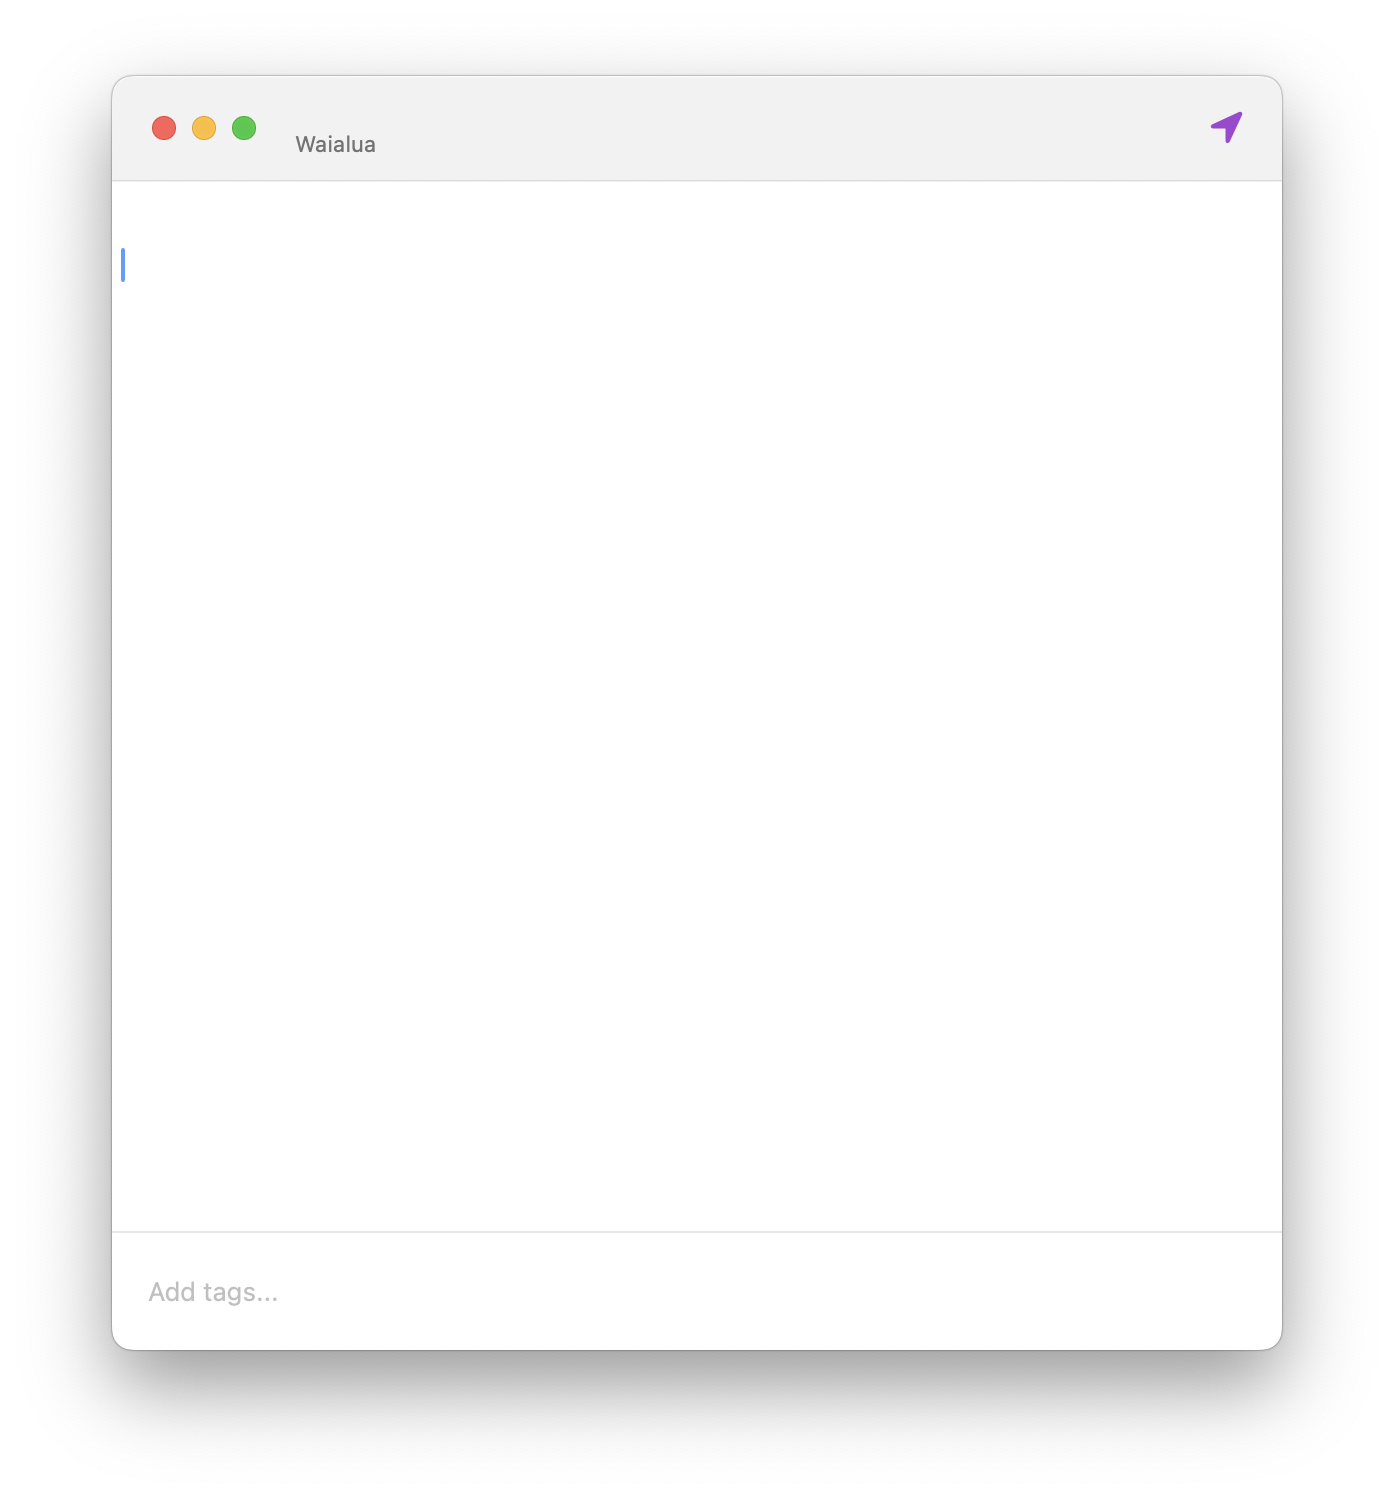
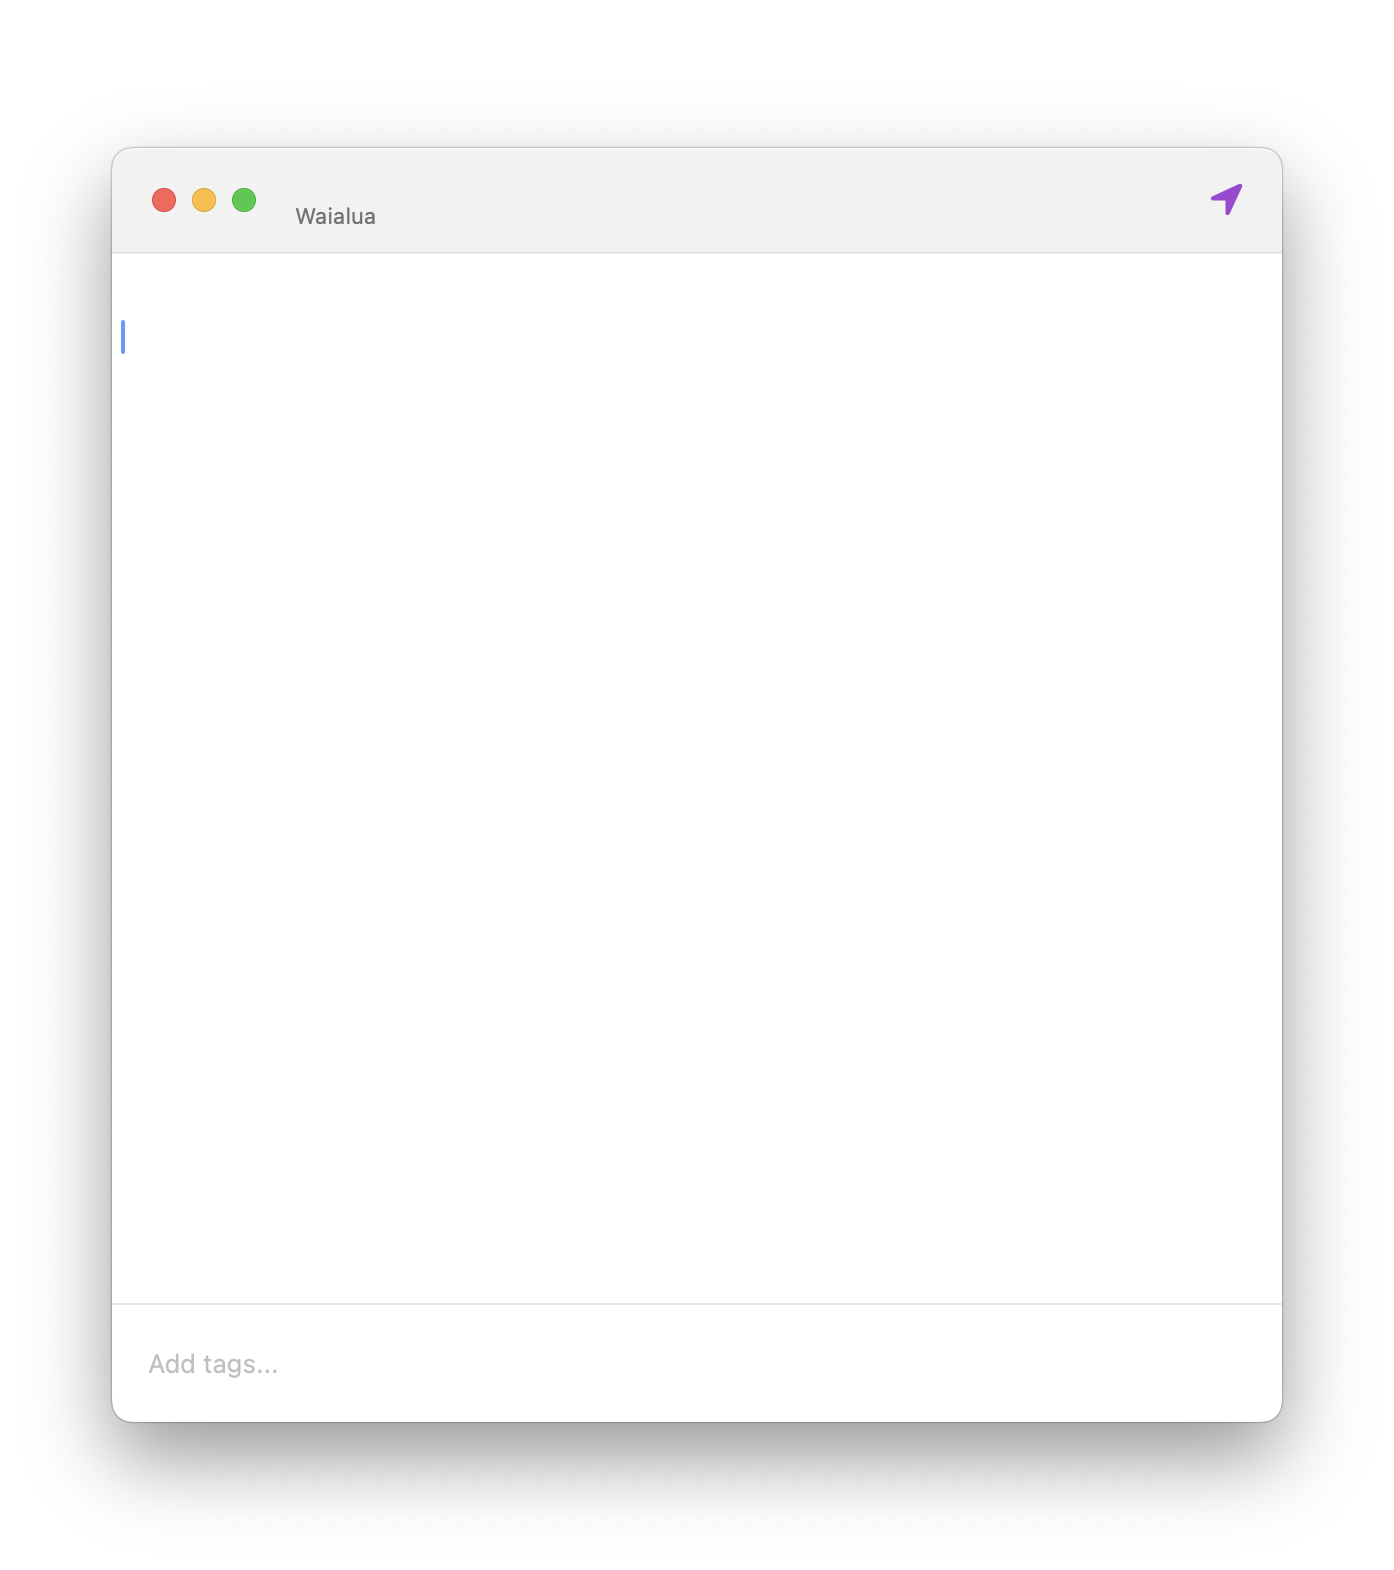
docs[website]: Center the animated showcase correctly (#167)
This correctly updates the showcase image to ensure it has equal
vertical borders.

This includes a drive-by fix to improve website build reliability by
using `GITHUB_TOKEN` when checking for the latest release.

diff --git a/docs/assets/css/custom.css b/docs/assets/css/custom.css
@@ -1,35 +1,27 @@
 :root {
-    --accent-color-high: #03fbfe;
-    --accent-color-low: #008eeb;
+    --brand-color: #00c3f6;
+    --showcase-color-high: #03fbfe;
+    --showcase-color-low: #008eeb;
 }
 
 @media (prefers-color-scheme: dark) {
 
     :root {
-        --accent-color-high: #003a3b;
-        --accent-color-low: #1a1e2f;
+        --brand-color: #0790ec;
+        --showcase-color-high: #003a3b;
+        --showcase-color-low: #1a1e2f;
     }
 
 }
 
-
-.showcase {
-    background-image: radial-gradient(var(--accent-color-high), var(--accent-color-low));
-    width: 100vw;
-    transition: background-image 0.3s ease-in-out;
-    margin: calc(2 * var(--vertical-spacing)) 0;
-    padding-top: 38px;
-    font-weight: 400;
-}
-
 .window {
     box-sizing: border-box;
-    background-size: 689px 171px;
+    background-size: 689px 207px;
     width: 689px;
     margin: auto;
-    border-width: 91px 57px 133.5px 57px;
+    border-width: 127px 57px 133.5px 57px;
     border-style: solid;
-    border-image: url("/images/window@2x.png") 182 114 267 114 round;
+    border-image: url("/images/window@2x.png") 254 114 267 114 round;
     transition: border-image 0.3s ease-in-out;
     position: relative;
 }
